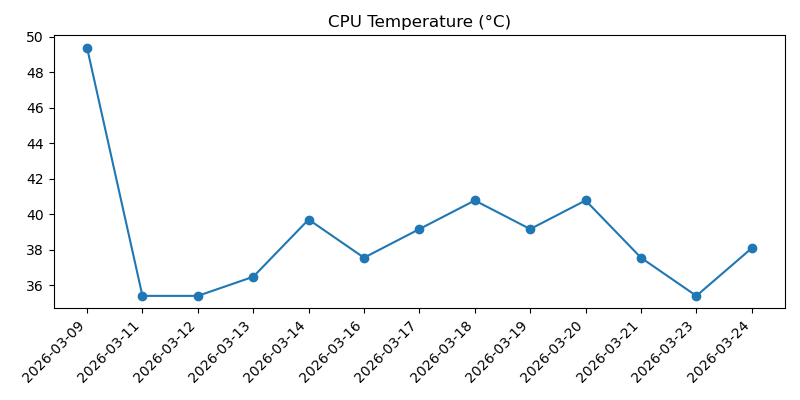
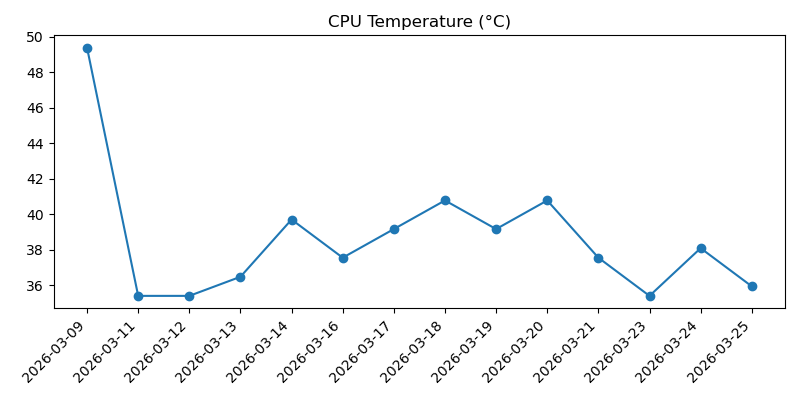
Record daily machine check

diff --git a/2026-03.md b/2026-03.md
@@ -441,3 +441,37 @@
 - Overall: Good
 - Warning: None
 
+## 2026-03-25 13:40:55
+
+### Machine
+- Uptime: up 5 hours, 28 minutes
+- CPU load (1m, 5m, 15m): 0.01, 0.02, 0.00
+- RAM used: 173 MB / 921 MB (18.8%)
+- Disk used (/): 3.5 GB / 28.8 GB (12.1%)
+- Free disk space (/): 24.1 GB
+- CPU temp: 35.9°C
+- Voltage / throttling: OK
+
+### Reachability
+- Internet check (1.1.1.1): Reachable (3.6 ms)
+
+### Weather
+- Madrid:
+  - Condition: Poco nuboso
+  - Max temp: 22°C
+  - Min temp: 7°C
+  - Feels like: 14°C
+  - Chance of rain: 0%
+  - Warnings: None reported
+- Barcelona:
+  - Condition: Intervalos nubosos
+  - Max temp: 19°C
+  - Min temp: 12°C
+  - Feels like: 16°C
+  - Chance of rain: 25%
+  - Warnings: None reported
+
+### Health
+- Overall: Good
+- Warning: None
+
